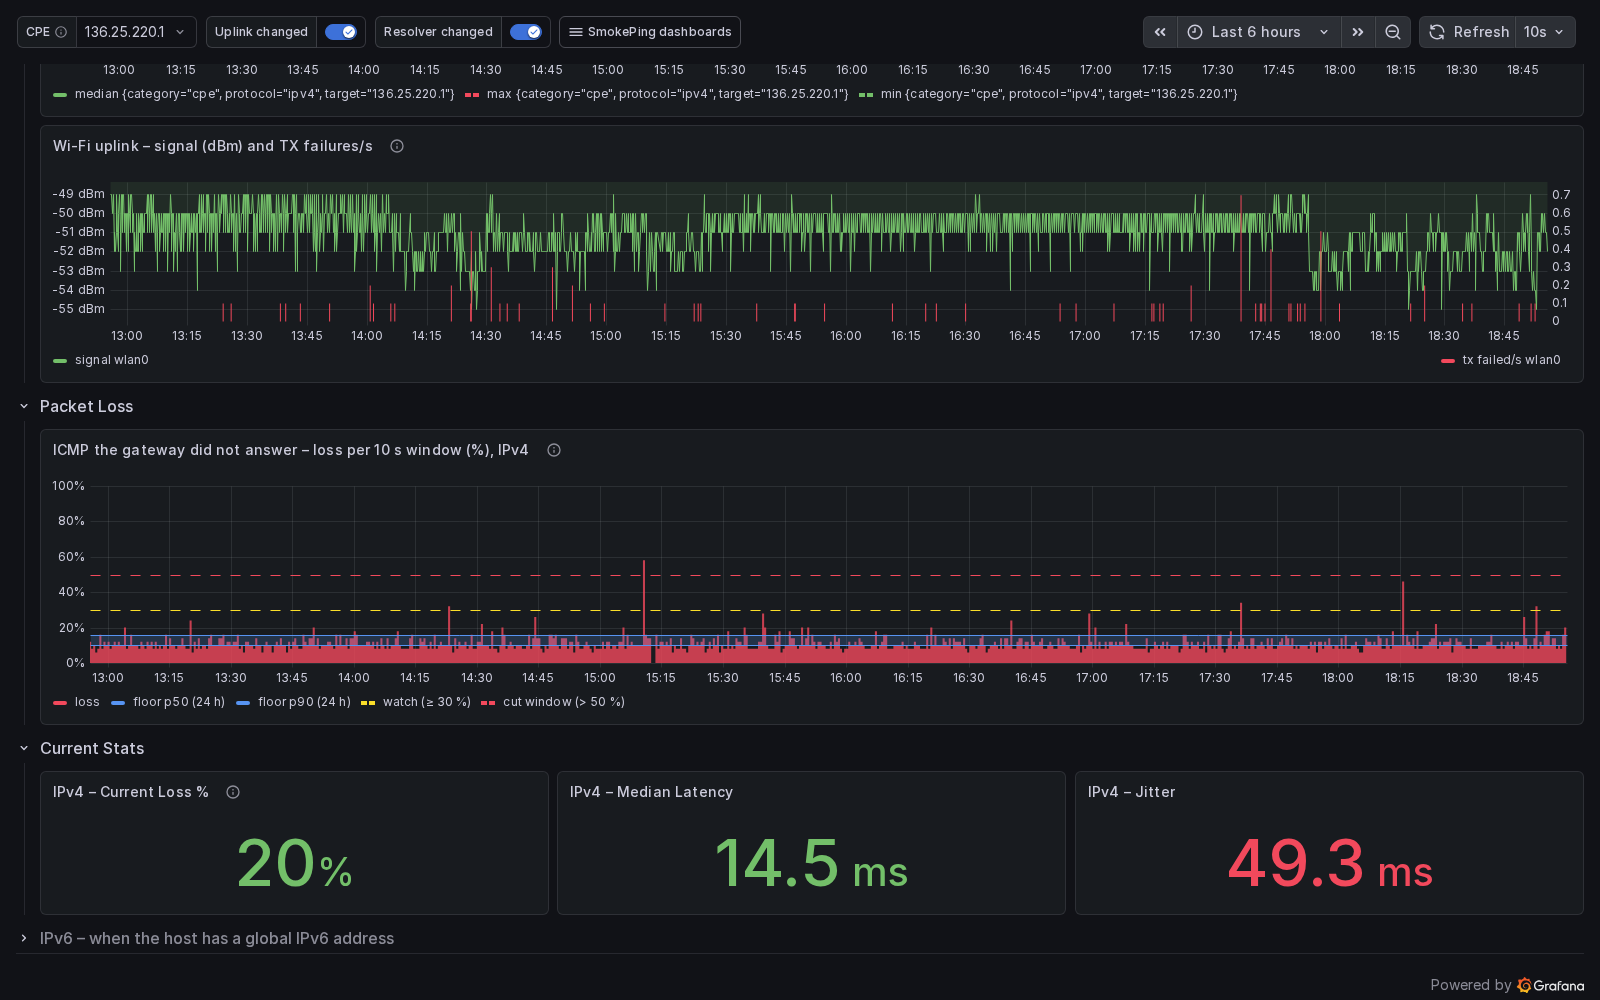
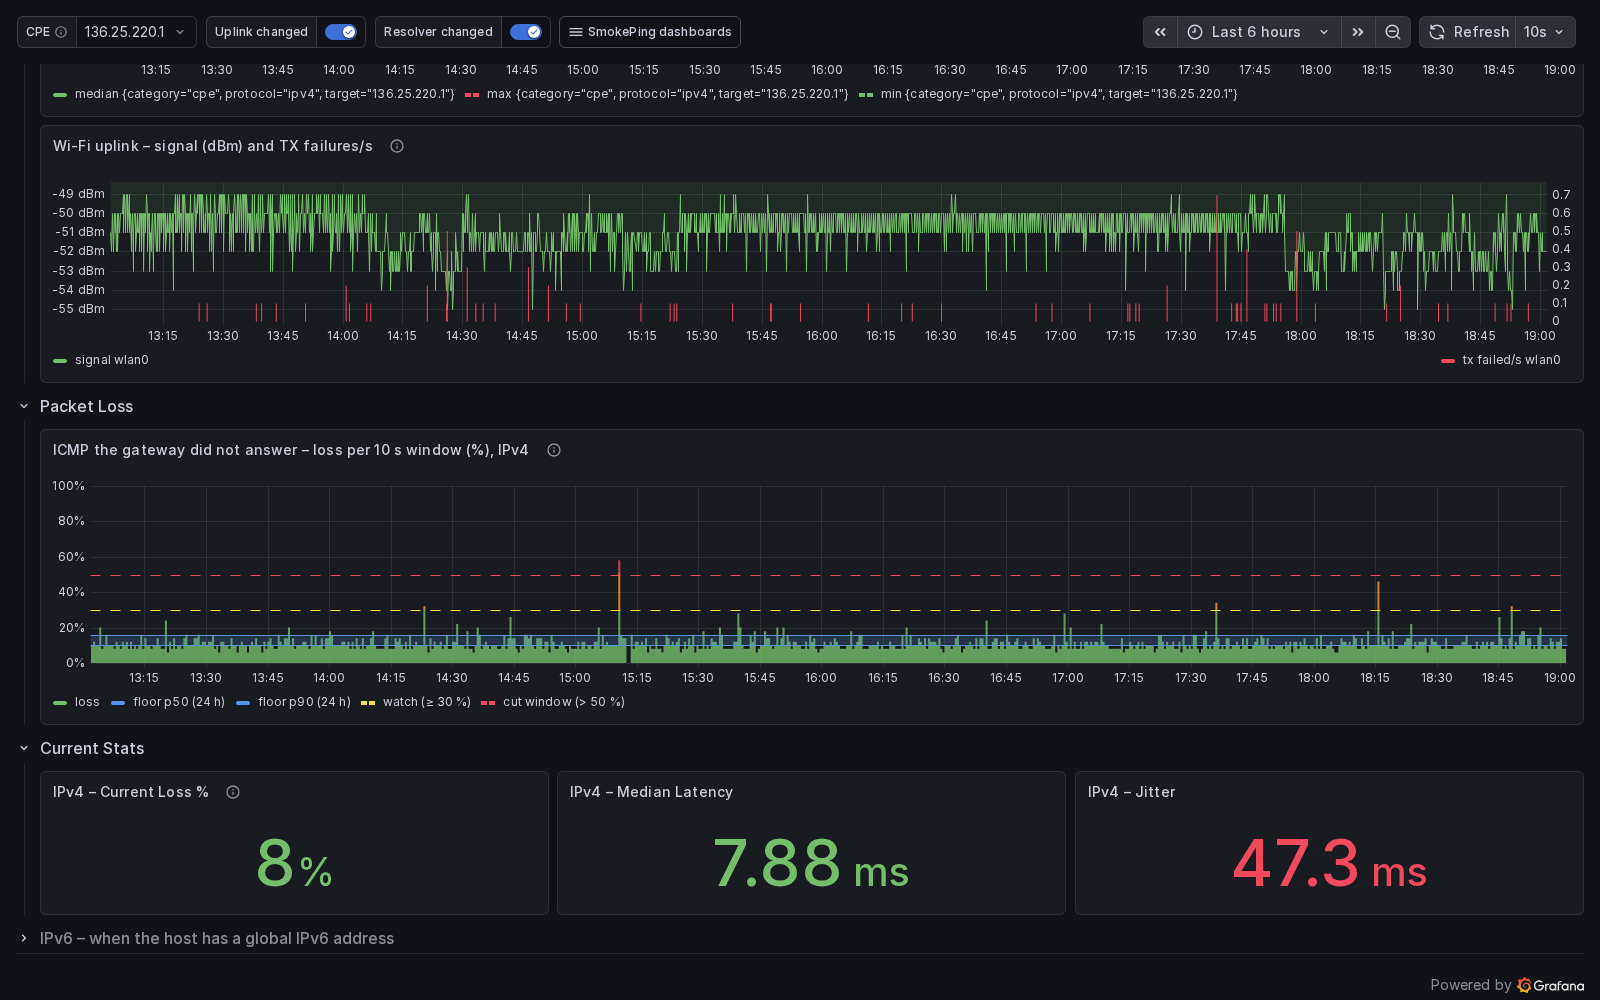
fix(grafana): the CPE loss bars take the stat tiles' colors by value, and the ClickHouse Side-by-Side says why the Wizard's targets are absent
Review of #382: bars drawn in fixed red hid the floor band and still read
as a wall of red; they now use the same green/orange/red steps as the
tiles. The ClickHouse twin's hint names the real reason (the exporter files
the Wizard's directory as unknown, which the variable excludes). Docs no
longer name an unreleased version; the band's "last 24 h from now" is said.

diff --git a/CHANGELOG.md b/CHANGELOG.md
@@ -30,8 +30,9 @@ version gets a matching GitHub release and git tag.
   (no new probe, no extra traffic; p50 10 % / p90 16 % on the reference
   gateway on 2026-10-17). The *Current Loss %* tile describes the floor and
   colors below 30 % green, 30–50 % orange and above 50 % red, the cut
-  definition's `>`; the IPv6 twins in the collapsed row get the same. The
-  loss series is named `loss` instead of carrying its three tags.
+  definition's `>`, and the bars use the same three colors by value; the
+  IPv6 twins in the collapsed row get the same. The loss series is named
+  `loss` instead of carrying its three tags.
 - **Side-by-Side says it is one category at a time.** With `topsites`
   selected the dashboard showed five panels and nothing said why only
   those; the maintainer asked. The category variable is now labeled
@@ -50,8 +51,8 @@ version gets a matching GitHub release and git tag.
   target, titled with the target, holding its latency panel (two thirds of
   the width, with the Unreachable and Lossy bars as before) and its loss
   panel beside it. Deep links with `var-target=<name>` still land on that
-  one target's row. The ClickHouse twins get the same shape; the Individual
-  Pings loss series is named *Loss* instead of its tags.
+  one target's row. The ClickHouse twins get the same shape; the InfluxDB
+  Individual Pings loss series is named *Loss* instead of its tags.
 
 ## [2.40.0] — 2026-10-17
 

diff --git a/docs/detection-reliability.md b/docs/detection-reliability.md
@@ -325,12 +325,14 @@ above 50%, which is a cut window:
 
 The thresholds alone still read as "40% packet loss" to someone who did
 not know the gateway rate-limits ICMP (the maintainer, reviewing production
-on 2026-10-17). Since v2.40.1 the loss panel is titled *ICMP the gateway
+on 2026-10-17). Since the release after v2.40.0 the loss panel is titled *ICMP the gateway
 did not answer – loss per 10 s window (%)*, its legend names the two lines
 (*cut window (> 50 %)*, *watch (≥ 30 %)*) and draws the gateway's own
 floor over the last 24 hours as a band from the median window (p50) to the
 90th percentile (p90), computed in InfluxDB with `quantile` over the same
-`cpe_latency` rows (no new probe). Bars inside the band are the floor; on
+`cpe_latency` rows (no new probe; the last 24 hours from now, whatever
+range is shown). The bars are colored by value with the tile's steps.
+Bars inside the band are the floor; on
 the reference gateway it sat at p50 10% / p90 16% on 2026-10-17. The
 *Current Loss %* tile explains the same in its description and colors
 below 30% green, 30–50% orange and above 50% red:
